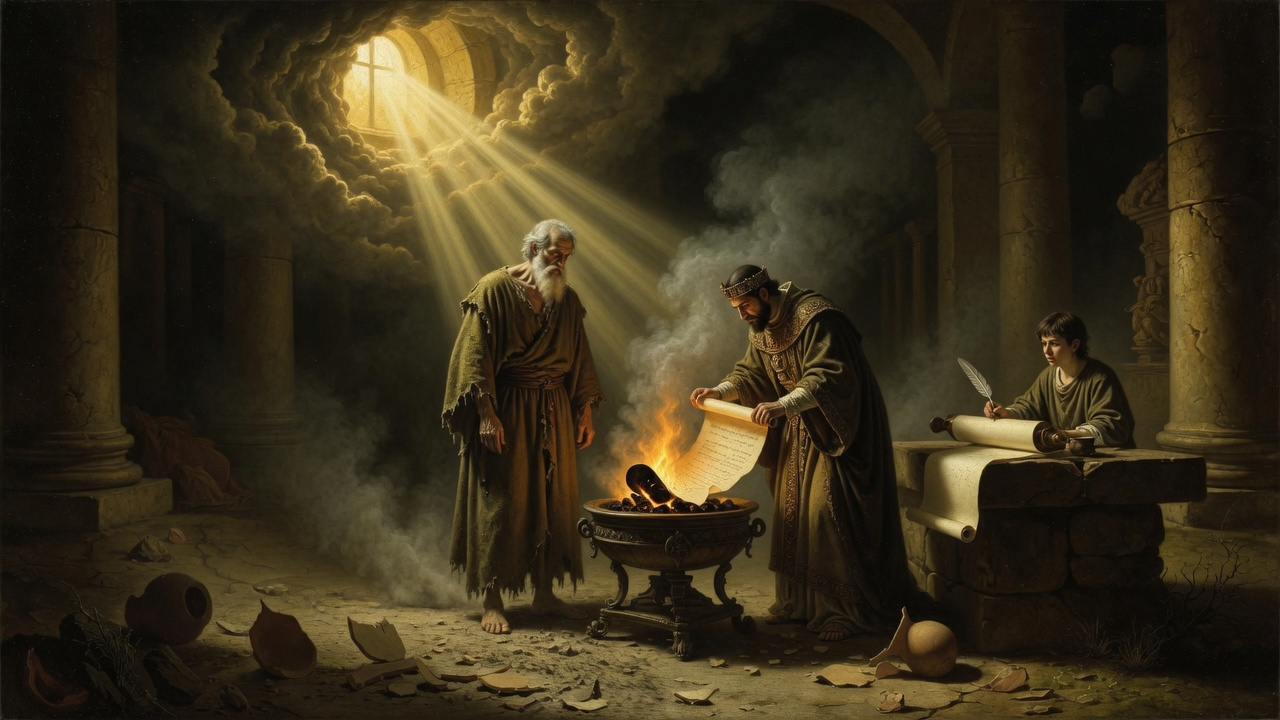
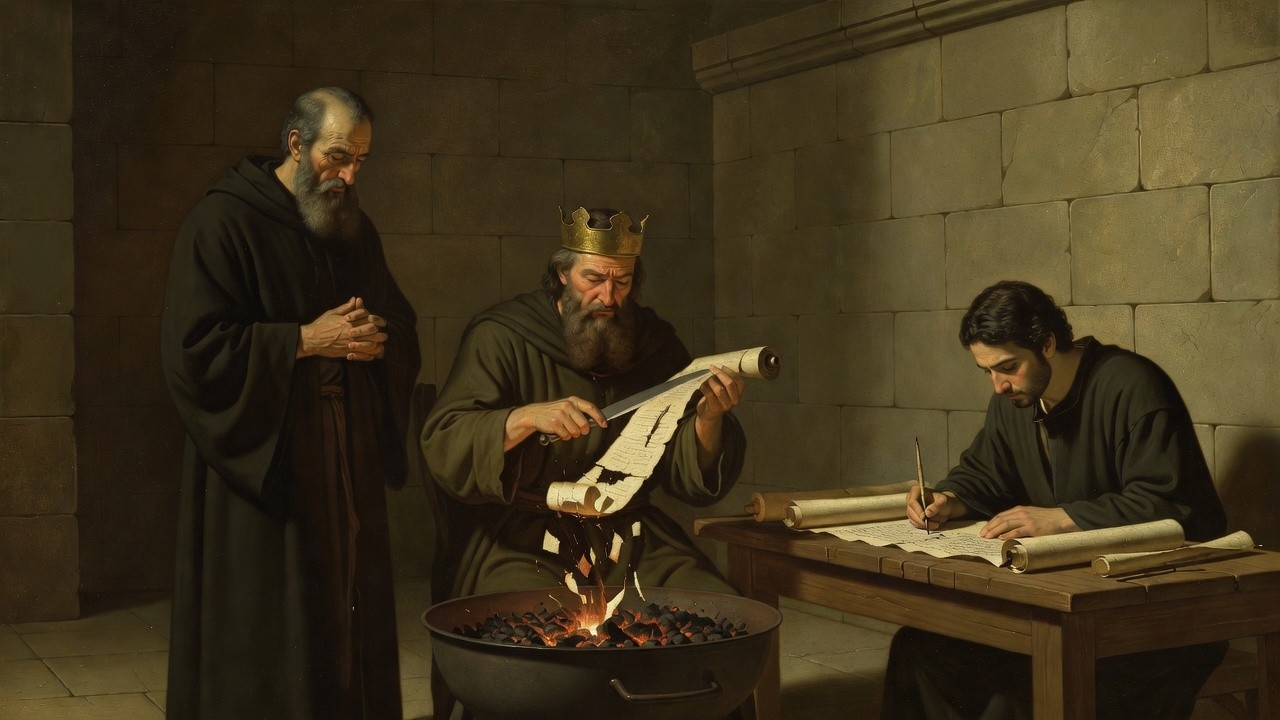
Use the book paintings as episode artwork.
Isaiah is the temple and the coal. Jeremiah no longer has a cross in the wall. The other seven announcement paintings are unchanged.

diff --git a/web/src/pages/feed.xml.ts b/web/src/pages/feed.xml.ts
@@ -1,6 +1,7 @@
 import type { APIRoute } from 'astro';
 import { availableBooks, bookAudioUrl, bookChaptersJsonUrl } from '~/lib/books';
 import { fetchChapters } from '~/lib/chapters';
+import { episodeArtSquareHref } from '~/lib/episode-art';
 
 const SITE = 'https://podcast.heybible.org';
 const TITLE = 'The Hey Bible Podcast';
@@ -66,12 +67,14 @@ export const GET: APIRoute = async () => {
         ? `The complete book of ${book.name} from the World English Bible.\n\nChapters:\n${chapterTimestamps}`
         : `The complete book of ${book.name} from the World English Bible.`;
 
+      const art = episodeArtSquareHref(book.slug, SITE);
+      const artTag = art ? `\n      <itunes:image href="${art}" />` : '';
       return `
     <item>
       <title>${escapeXml(`The Book of ${book.name}`)}</title>
       <description>${escapeXml(descriptionWithTimestamps)}</description>
       <link>${SITE}/books/${book.slug}/</link>
-      <guid isPermaLink="false">heybible-fm-${book.slug}</guid>
+      <guid isPermaLink="false">heybible-fm-${book.slug}</guid>${artTag}
       <pubDate>${pubDate}</pubDate>
       <enclosure url="${audioUrl}" length="${sizeBytes}" type="audio/mpeg" />
       <itunes:author>${escapeXml(AUTHOR)}</itunes:author>

diff --git a/web/src/lib/episode-art.ts b/web/src/lib/episode-art.ts
@@ -1,0 +1,15 @@
+import { existsSync } from 'node:fs';
+import { join } from 'node:path';
+import { fileURLToPath } from 'node:url';
+
+const publicDir = join(fileURLToPath(new URL('.', import.meta.url)), '../../public');
+
+export function episodeArtSrc(slug: string): string | null {
+  const file = join(publicDir, 'book-art', `${slug}.jpg`);
+  return existsSync(file) ? `/book-art/${slug}.jpg` : null;
+}
+
+export function episodeArtSquareHref(slug: string, site: string): string | null {
+  const file = join(publicDir, 'book-art', `${slug}-square.jpg`);
+  return existsSync(file) ? `${site}/book-art/${slug}-square.jpg` : null;
+}

diff --git a/scripts/install-episode-art.py b/scripts/install-episode-art.py
@@ -1,0 +1,47 @@
+#!/usr/bin/env python3
+"""Copy a book painting into the site as episode art.
+
+Reads assets/book-art/{slug}.jpg and writes:
+  web/public/book-art/{slug}.jpg          landscape, book page
+  web/public/book-art/{slug}-square.jpg   1400 square, RSS itunes:image
+"""
+import sys
+from pathlib import Path
+
+from PIL import Image, ImageEnhance, ImageFilter
+
+ROOT = Path(__file__).resolve().parents[1]
+ART = ROOT / "assets" / "book-art"
+PUB = ROOT / "web" / "public" / "book-art"
+
+
+def install(slug: str) -> None:
+    src = ART / f"{slug}.jpg"
+    if not src.exists():
+        raise SystemExit(f"missing {src}")
+    PUB.mkdir(parents=True, exist_ok=True)
+    im = Image.open(src).convert("RGB")
+    if im.size != (1280, 720):
+        im = im.resize((1280, 720), Image.Resampling.LANCZOS)
+    wide = PUB / f"{slug}.jpg"
+    im.save(wide, "JPEG", quality=90, optimize=True)
+    w, h = im.size
+    scale = max(1400 / w, 1400 / h)
+    cover = im.resize((int(w * scale), int(h * scale)), Image.Resampling.LANCZOS)
+    left = (cover.width - 1400) // 2
+    top = (cover.height - 1400) // 2
+    cover = cover.crop((left, top, left + 1400, top + 1400))
+    cover = ImageEnhance.Brightness(cover.filter(ImageFilter.GaussianBlur(28))).enhance(0.55)
+    sh = int(1400 * h / w)
+    sharp = im.resize((1400, sh), Image.Resampling.LANCZOS)
+    cover.paste(sharp, (0, (1400 - sh) // 2))
+    square = PUB / f"{slug}-square.jpg"
+    cover.save(square, "JPEG", quality=88, optimize=True)
+    print(f"installed {slug} {wide.name} {square.name}")
+
+
+if __name__ == "__main__":
+    if len(sys.argv) < 2:
+        raise SystemExit("usage: install-episode-art.py <slug> [slug...]")
+    for slug in sys.argv[1:]:
+        install(slug)
